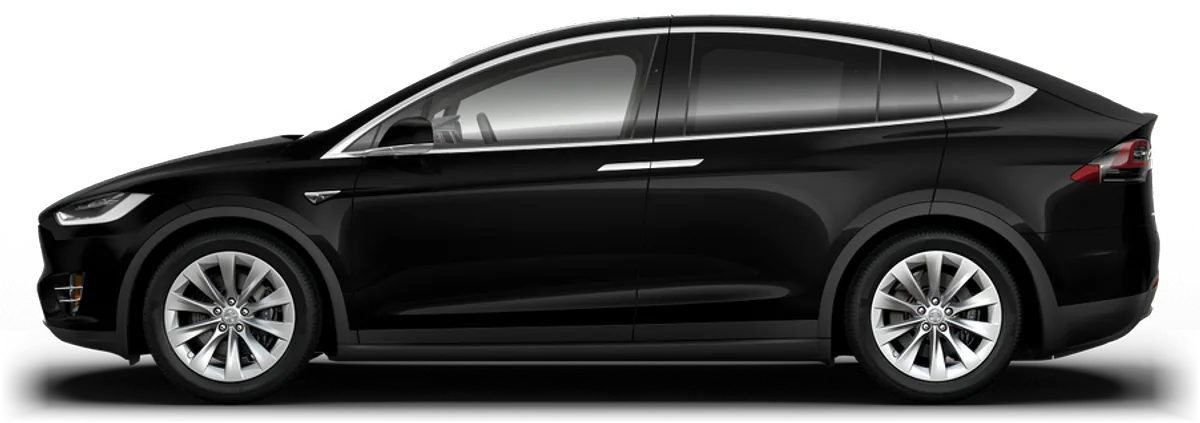
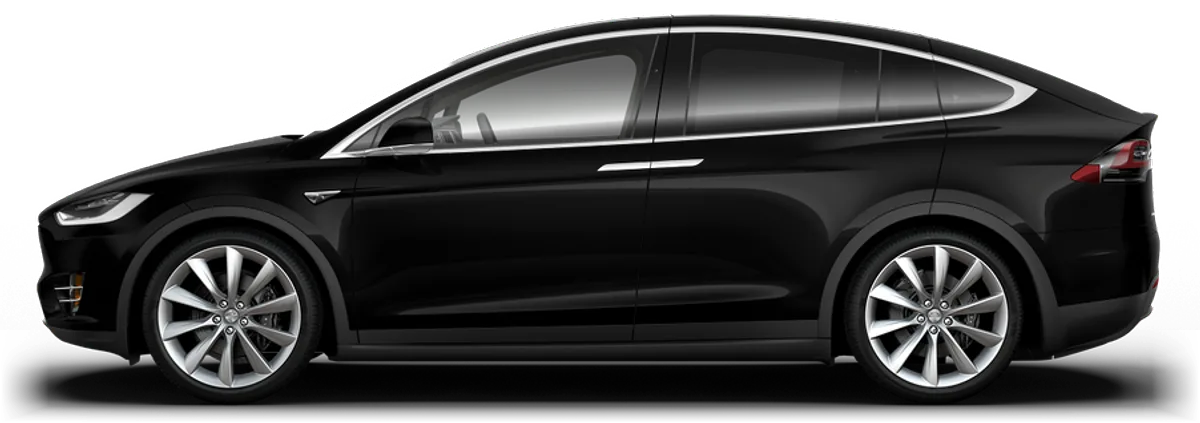
Refresh hero photos: new Model S, 22-inch Model X wheels, accurate zones
- Model S now uses the refreshed (Palladium) render instead of the
  pre-facelift car
- Model X render switched to 22" turbine wheels
- Click zones recalibrated per model against the actual photos (grid
  overlay): bumpers, lights, hood, glass, mirror, doors, trunk and
  battery now sit on the right pixels
- Wheels are now clickable too — front/rear wheel zones open the
  "Wheels & Tires" catalogue section

Claude-Session: https://claude.ai/code/session_01VTec1nev5kP9ofNk5y2hkx

Changed region(s): [[0.7092, 0.5532, 0.8633, 0.922], [0.1233, 0.5839, 0.2775, 0.922]]

diff --git a/src/components/TeslaModelHero.tsx b/src/components/TeslaModelHero.tsx
@@ -21,43 +21,82 @@ interface ModelPhoto {
   zones: Zone[];
 }
 
-// Zone rectangles are fractions of the photo box so each model's zones track
-// its own image placement.
-const SEDAN_ZONES: Zone[] = [
-  { sec: 'body',       label: 'წინა ბამპერი',     frac: [0.00, 0.42, 0.085, 0.53] },
-  { sec: 'electrical', label: 'ფარები',           frac: [0.015, 0.38, 0.115, 0.20] },
-  { sec: 'closure',    label: 'კაპოტი / ფრანქი',  frac: [0.10, 0.24, 0.215, 0.26] },
-  { sec: 'roof',       label: 'მინა და სახურავი',  frac: [0.30, 0.00, 0.46, 0.28] },
-  { sec: 'ext-fit',    label: 'სარკე და გარე',    frac: [0.315, 0.28, 0.07, 0.14] },
-  { sec: 'closure',    label: 'კარები',           frac: [0.315, 0.42, 0.40, 0.44] },
-  { sec: 'closure',    label: 'საბარგული',        frac: [0.72, 0.10, 0.20, 0.30] },
-  { sec: 'electrical', label: 'უკანა ფარები',     frac: [0.885, 0.28, 0.105, 0.18] },
-  { sec: 'body',       label: 'უკანა ბამპერი',    frac: [0.905, 0.46, 0.095, 0.48] },
-  { sec: 'hv-battery', label: 'HV ბატარეა',       frac: [0.16, 0.86, 0.68, 0.14] },
-];
-
-const SUV_ZONES: Zone[] = [
-  { sec: 'body',       label: 'წინა ბამპერი',     frac: [0.00, 0.48, 0.085, 0.48] },
-  { sec: 'electrical', label: 'ფარები',           frac: [0.015, 0.40, 0.12, 0.18] },
-  { sec: 'closure',    label: 'კაპოტი / ფრანქი',  frac: [0.09, 0.26, 0.20, 0.24] },
-  { sec: 'roof',       label: 'მინა და სახურავი',  frac: [0.27, 0.00, 0.52, 0.32] },
-  { sec: 'ext-fit',    label: 'სარკე და გარე',    frac: [0.29, 0.32, 0.07, 0.14] },
-  { sec: 'closure',    label: 'კარები',           frac: [0.29, 0.46, 0.42, 0.42] },
-  { sec: 'closure',    label: 'საბარგული',        frac: [0.79, 0.10, 0.16, 0.36] },
-  { sec: 'electrical', label: 'უკანა ფარები',     frac: [0.88, 0.34, 0.11, 0.16] },
-  { sec: 'body',       label: 'უკანა ბამპერი',    frac: [0.90, 0.50, 0.10, 0.46] },
-  { sec: 'hv-battery', label: 'HV ბატარეა',       frac: [0.16, 0.88, 0.66, 0.12] },
-];
-
-const withLabel = (zones: Zone[], sec: string, label: string): Zone[] =>
-  zones.map(z => (z.sec === sec && z.label === 'კარები' ? { ...z, label } : z));
-
+// Zone rectangles are fractions of the photo box, calibrated per model
+// against the actual image (grid overlay). Later zones win on overlap, so the
+// wheels come last and stay clickable over the doors/battery areas.
 const MODELS: Record<string, ModelPhoto> = {
-  // image aspect ratios: ms 3.289, m3 3.117, mx 2.836, my 2.707
-  MS: { img: 'ms', box: [50, 49, 800, 243], zones: SEDAN_ZONES },
-  M3: { img: 'm3', box: [70, 48, 760, 244], zones: SEDAN_ZONES },
-  MX: { img: 'mx', box: [60, 17, 780, 275], zones: withLabel(SUV_ZONES, 'closure', 'ფალკონ-კარები') },
-  MY: { img: 'my', box: [80, 19, 740, 273], zones: SUV_ZONES },
+  // refreshed Model S, image ratio 3.210
+  MS: {
+    img: 'ms', box: [50, 43, 800, 249],
+    zones: [
+      { sec: 'body',         label: 'წინა ბამპერი',    frac: [0.000, 0.44, 0.075, 0.48] },
+      { sec: 'electrical',   label: 'ფარები',          frac: [0.010, 0.40, 0.090, 0.17] },
+      { sec: 'closure',      label: 'კაპოტი / ფრანქი', frac: [0.075, 0.25, 0.215, 0.24] },
+      { sec: 'roof',         label: 'მინა და სახურავი', frac: [0.290, 0.00, 0.570, 0.30] },
+      { sec: 'ext-fit',      label: 'სარკე და გარე',   frac: [0.290, 0.30, 0.055, 0.13] },
+      { sec: 'closure',      label: 'კარები',          frac: [0.330, 0.32, 0.400, 0.56] },
+      { sec: 'closure',      label: 'საბარგული',       frac: [0.860, 0.22, 0.120, 0.22] },
+      { sec: 'electrical',   label: 'უკანა ფარები',    frac: [0.940, 0.36, 0.060, 0.13] },
+      { sec: 'body',         label: 'უკანა ბამპერი',   frac: [0.920, 0.49, 0.080, 0.42] },
+      { sec: 'hv-battery',   label: 'HV ბატარეა',      frac: [0.260, 0.86, 0.460, 0.12] },
+      { sec: 'wheels-tires', label: 'დისკი და საბურავი', frac: [0.085, 0.50, 0.160, 0.47] },
+      { sec: 'wheels-tires', label: 'დისკი და საბურავი', frac: [0.720, 0.50, 0.160, 0.47] },
+    ],
+  },
+  // image ratio 3.117
+  M3: {
+    img: 'm3', box: [70, 48, 760, 244],
+    zones: [
+      { sec: 'body',         label: 'წინა ბამპერი',    frac: [0.000, 0.47, 0.075, 0.44] },
+      { sec: 'electrical',   label: 'ფარები',          frac: [0.015, 0.42, 0.100, 0.16] },
+      { sec: 'closure',      label: 'კაპოტი / ფრანქი', frac: [0.080, 0.29, 0.220, 0.23] },
+      { sec: 'roof',         label: 'მინა და სახურავი', frac: [0.300, 0.00, 0.530, 0.32] },
+      { sec: 'ext-fit',      label: 'სარკე და გარე',   frac: [0.300, 0.33, 0.055, 0.13] },
+      { sec: 'closure',      label: 'კარები',          frac: [0.340, 0.34, 0.370, 0.54] },
+      { sec: 'closure',      label: 'საბარგული',       frac: [0.830, 0.21, 0.130, 0.22] },
+      { sec: 'electrical',   label: 'უკანა ფარები',    frac: [0.940, 0.34, 0.060, 0.13] },
+      { sec: 'body',         label: 'უკანა ბამპერი',   frac: [0.920, 0.47, 0.080, 0.43] },
+      { sec: 'hv-battery',   label: 'HV ბატარეა',      frac: [0.270, 0.85, 0.440, 0.12] },
+      { sec: 'wheels-tires', label: 'დისკი და საბურავი', frac: [0.090, 0.52, 0.170, 0.46] },
+      { sec: 'wheels-tires', label: 'დისკი და საბურავი', frac: [0.700, 0.52, 0.170, 0.46] },
+    ],
+  },
+  // image ratio 2.836
+  MX: {
+    img: 'mx', box: [60, 17, 780, 275],
+    zones: [
+      { sec: 'body',         label: 'წინა ბამპერი',    frac: [0.000, 0.48, 0.070, 0.40] },
+      { sec: 'electrical',   label: 'ფარები',          frac: [0.010, 0.43, 0.095, 0.15] },
+      { sec: 'closure',      label: 'კაპოტი / ფრანქი', frac: [0.070, 0.29, 0.170, 0.22] },
+      { sec: 'roof',         label: 'ვინდშილდი და სახურავი', frac: [0.230, 0.00, 0.620, 0.33] },
+      { sec: 'ext-fit',      label: 'სარკე და გარე',   frac: [0.235, 0.34, 0.055, 0.13] },
+      { sec: 'closure',      label: 'ფალკონ-კარები',   frac: [0.300, 0.33, 0.380, 0.53] },
+      { sec: 'closure',      label: 'საბარგული',       frac: [0.850, 0.20, 0.120, 0.25] },
+      { sec: 'electrical',   label: 'უკანა ფარები',    frac: [0.930, 0.35, 0.065, 0.13] },
+      { sec: 'body',         label: 'უკანა ბამპერი',   frac: [0.910, 0.48, 0.090, 0.40] },
+      { sec: 'hv-battery',   label: 'HV ბატარეა',      frac: [0.280, 0.85, 0.400, 0.12] },
+      { sec: 'wheels-tires', label: 'დისკი და საბურავი', frac: [0.095, 0.50, 0.180, 0.46] },
+      { sec: 'wheels-tires', label: 'დისკი და საბურავი', frac: [0.675, 0.50, 0.200, 0.46] },
+    ],
+  },
+  // image ratio 2.707
+  MY: {
+    img: 'my', box: [80, 19, 740, 273],
+    zones: [
+      { sec: 'body',         label: 'წინა ბამპერი',    frac: [0.000, 0.50, 0.070, 0.42] },
+      { sec: 'electrical',   label: 'ფარები',          frac: [0.010, 0.44, 0.095, 0.16] },
+      { sec: 'closure',      label: 'კაპოტი / ფრანქი', frac: [0.065, 0.28, 0.195, 0.24] },
+      { sec: 'roof',         label: 'მინა და სახურავი', frac: [0.260, 0.00, 0.580, 0.34] },
+      { sec: 'ext-fit',      label: 'სარკე და გარე',   frac: [0.250, 0.27, 0.055, 0.14] },
+      { sec: 'closure',      label: 'კარები',          frac: [0.310, 0.34, 0.390, 0.54] },
+      { sec: 'closure',      label: 'საბარგული',       frac: [0.840, 0.20, 0.130, 0.26] },
+      { sec: 'electrical',   label: 'უკანა ფარები',    frac: [0.930, 0.29, 0.065, 0.15] },
+      { sec: 'body',         label: 'უკანა ბამპერი',   frac: [0.910, 0.48, 0.090, 0.42] },
+      { sec: 'hv-battery',   label: 'HV ბატარეა',      frac: [0.270, 0.86, 0.420, 0.12] },
+      { sec: 'wheels-tires', label: 'დისკი და საბურავი', frac: [0.090, 0.54, 0.170, 0.44] },
+      { sec: 'wheels-tires', label: 'დისკი და საბურავი', frac: [0.700, 0.54, 0.180, 0.44] },
+    ],
+  },
 };
 
 interface Props {
